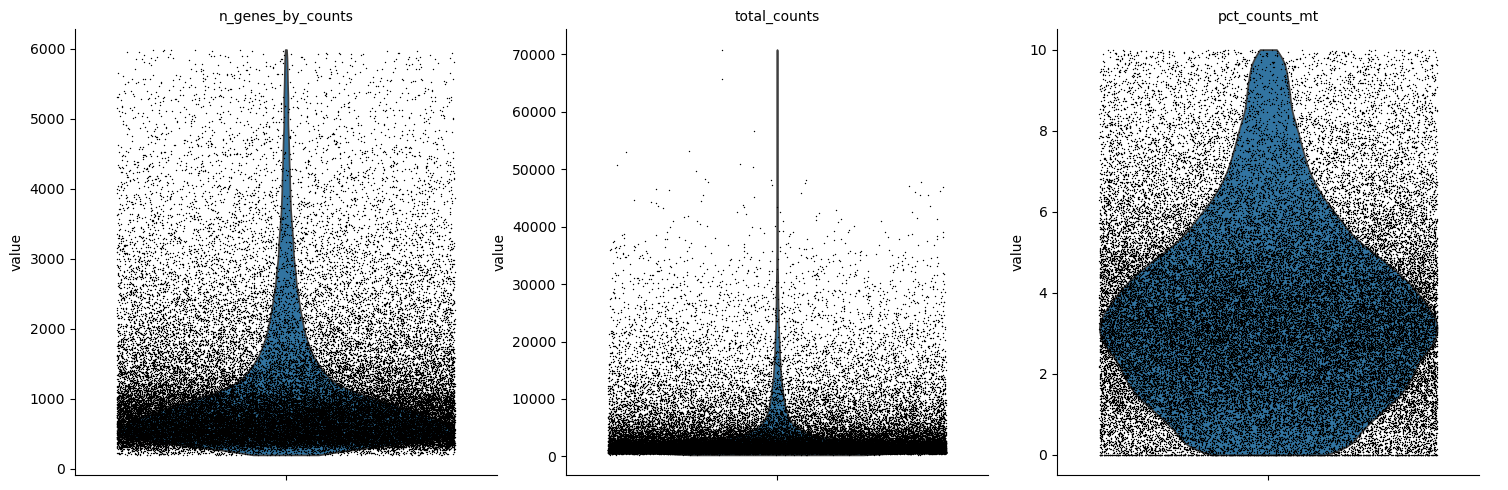
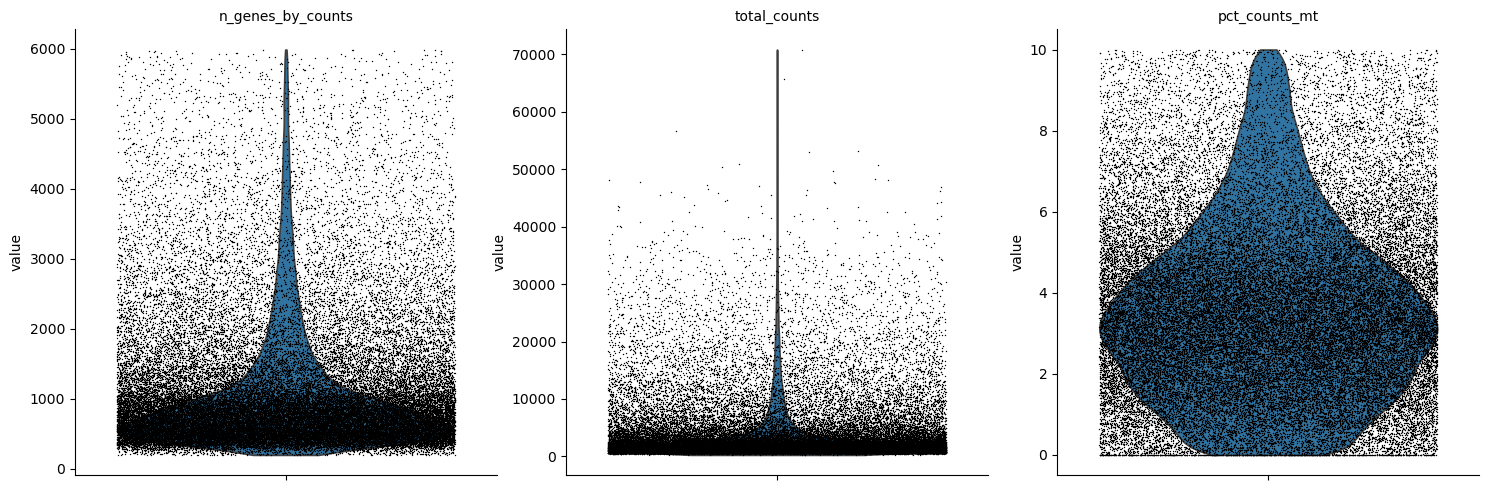
updated

Changed region(s): [[0.7168, 0.0918, 0.9662, 0.949], [0.0623, 0.0918, 0.3117, 0.949], [0.4052, 0.4898, 0.6545, 0.9184]]

diff --git a/scripts/python_scripts/emtab_6149_workflow.py b/scripts/python_scripts/emtab_6149_workflow.py
@@ -208,10 +208,10 @@ def scvi_analysis_and_clustering(adata, processed_h5_file, vae_file):
 
     # Train scvi model
     print("Training scVI model...")
-    vae = scvi.model.SCVI(adata, n_layers = 2, n_latent = 30, gene_likelihood = "nb")
+    vae = scvi.model.SCVI(adata, n_layers = 2, n_latent = 30, gene_likelihood = "zinb")
 
     # Train the model
-    vae.train(max_epochs = 400, plan_kwargs = {"lr": 1e-3}, check_val_every_n_epoch = 10, accelerator = "gpu")
+    vae.train()
     vae.save(vae_file)
 
     print("Getting latent representation...")
